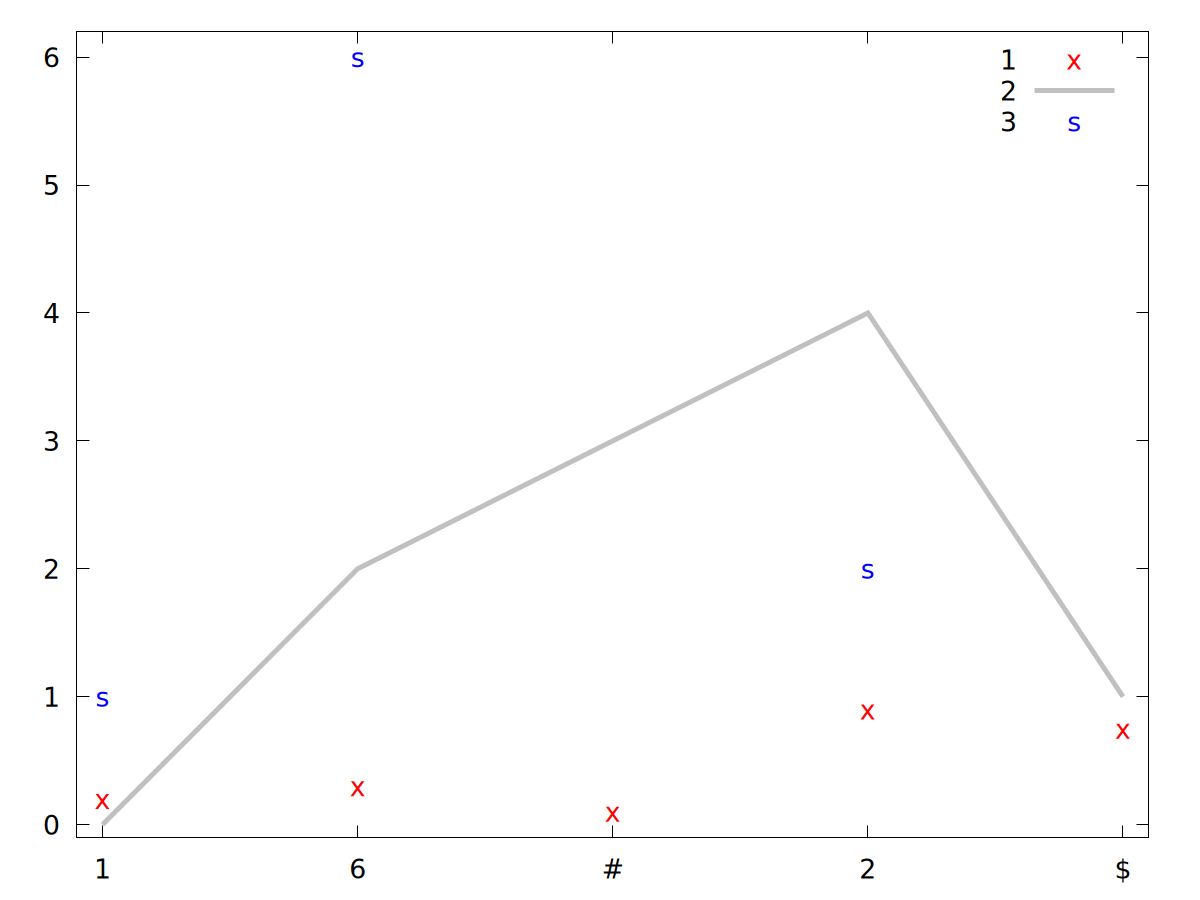
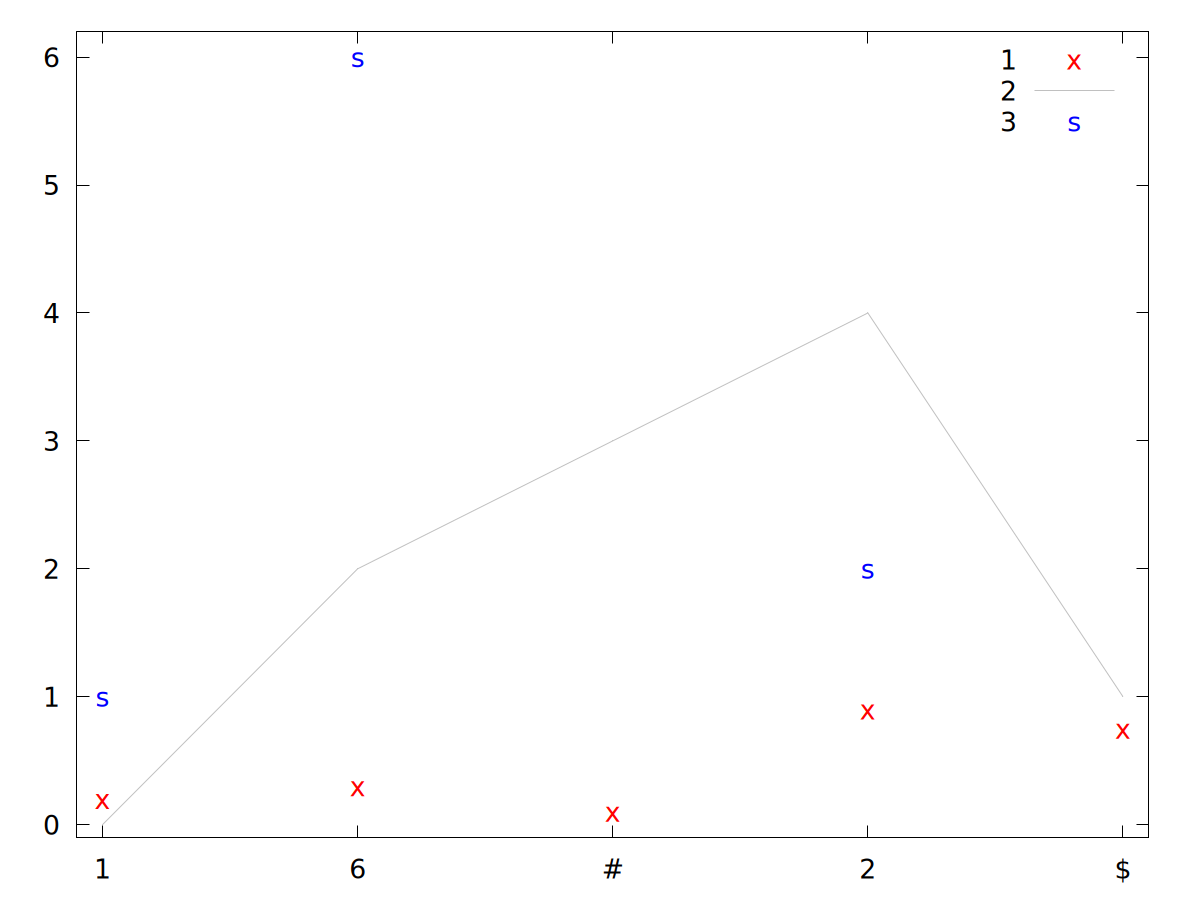
Updated examples

diff --git a/src/plotter.hpp b/src/plotter.hpp
@@ -807,9 +807,9 @@ public:
         _write_data(filename, x, ub, lb);
 
         if (color == "auto")
-            fprintf(gnuplotPipe, ", \"%s\" using 1:2:3 with filledcurves fill transparent solid %f", filename.c_str(), alpha);
+            fprintf(gnuplotPipe, ", \"%s\" using 1:2:3 with filledcurves fill transparent solid %f title ''", filename.c_str(), alpha);
         else
-            fprintf(gnuplotPipe, ", \"%s\" using 1:2:3 with filledcurves linecolor '%s' fill transparent solid %f", filename.c_str(), color, alpha);
+            fprintf(gnuplotPipe, ", \"%s\" using 1:2:3 with filledcurves linecolor '%s' fill transparent solid %f title ''", filename.c_str(), color, alpha);
 
         cnt_files++;
     }
@@ -832,9 +832,9 @@ public:
         _write_data(filename, x, ub, lb);
 
         if (color == "auto")
-            fprintf(gnuplotPipe, ", \"%s\" using 1:2:3 with filledcurves fill transparent solid %f", filename.c_str(), alpha);
+            fprintf(gnuplotPipe, ", \"%s\" using 1:2:3 with filledcurves fill transparent solid %f title ''", filename.c_str(), alpha);
         else
-            fprintf(gnuplotPipe, ", \"%s\" using 1:2:3 with filledcurves linecolor '%s' fill transparent solid %f", filename.c_str(), color, alpha);
+            fprintf(gnuplotPipe, ", \"%s\" using 1:2:3 with filledcurves linecolor '%s' fill transparent solid %f title ''", filename.c_str(), color, alpha);
 
         cnt_files++;
     }

diff --git a/examples.cpp b/examples.cpp
@@ -14,8 +14,14 @@ int main()
     plt.set_ylim(0 - 0.1, 6 + 0.2);
     plt.xticks(xt);
     plt.createPlot(y, "1", "auto", Plotter::None, 1.0, 5.0, Plotter::DASH_N_DOT);
-    plt.addPlot(x, "2", "blue", "", 5.0, Plotter::POINT);
-    plt.addPlot(xt, "3", "green", "", 5.0, Plotter::DASH_N_DOUBLE_DOT);
+    std::vector<double> ub(y.size()), lb(y.size());
+    for (int i = 0; i < y.size(); i++) {
+        ub[i] = y[i] + 0.2;
+        lb[i] = y[i] - 0.1;
+    }
+    plt.fillBetween(ub, lb);
+    plt.addPlot(x, "2", "blue", Plotter::None, 5.0, Plotter::POINT);
+    plt.addPlot(xt, "3", "green", Plotter::None, 5.0, Plotter::DASH_N_DOUBLE_DOT);
     plt.plot();
 
     plt.reset();
@@ -25,7 +31,7 @@ int main()
     plt.set_ylim(0 - 0.1, 6 + 0.2);
     plt.xticks(xt);
     plt.createScatterPlot(y, "x", 0.5, "1", "red");
-    plt.addPlot(x, "2", "grey", "", 5.0);
+    plt.addPlot(x, "2", "grey", Plotter::None, 5.0);
     plt.addScatterPlot(xt, "s", 2.0, "3", "blue");
     plt.plot();
     
